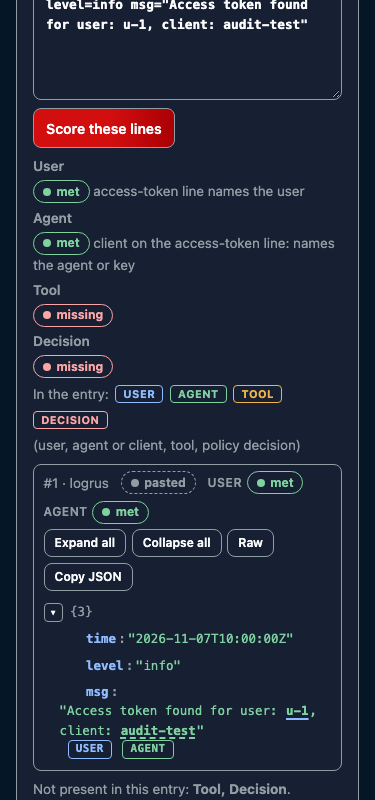
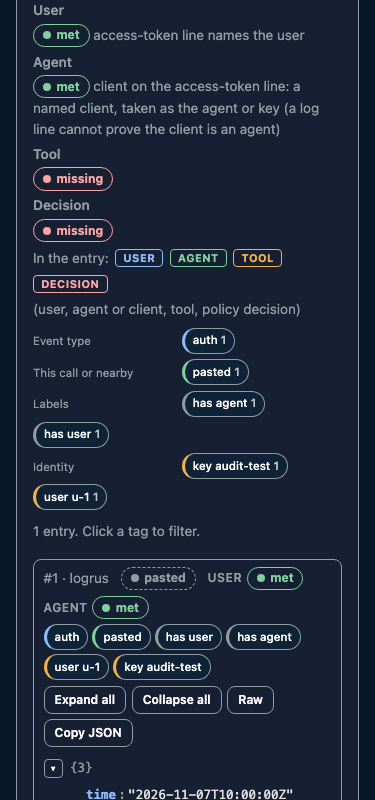
Trace entry tags with filtering; Run stays on the Run page
Every log entry now carries clickable tags in four groups: event type
(read from the line), this call or nearby, labels (source, runtime or
console, requirement fields) and identity (keys, users, apps and decoded
Privilege RefIDs). Each sink gets a tag filter with counts: any tag within
a group, all groups with a selection.

Run no longer jumps to the Trace: the result shows on the card, focus
returns to that Run button, and Open trace is a separate click.

diff --git a/web/src/App.test.jsx b/web/src/App.test.jsx
@@ -41,7 +41,7 @@ describe("Mock mode", () => {
     }
     await screen.findByTestId("run-page");
     await user.click(screen.getByTestId("run-mcp-allowed-key"));
-    // the run opens its Trace by itself once the log entry has been fetched
+    await openTrace(user, "mcp-allowed-key");
     const lines = await screen.findByTestId("lines-gateway-log", {}, { timeout: 5000 });
     const marked = [...lines.querySelectorAll("mark")].map((m) => [m.getAttribute("data-field"), m.textContent]);
     expect(marked).toContainEqual(["tool", "get_weather"]);
@@ -136,13 +136,35 @@ describe("Mock mode", () => {
     render(<App />);
     await screen.findByTestId("run-page");
     await user.click(screen.getByTestId("run-no-credential"));
-    await screen.findByTestId("trace-page", {}, { timeout: 5000 });
-    await user.click(screen.getByTestId("nav-run"));
-    await screen.findByTestId("open-no-credential");
+    await screen.findByTestId("open-no-credential", {}, { timeout: 5000 });
     await user.click(screen.getByTestId("refresh"));
     await waitFor(() => expect(screen.getByTestId("notice").textContent).toMatch(/Refreshed: any wait for a log entry was stopped/));
     expect(screen.getByTestId("open-no-credential")).toBeInTheDocument();
     expect(screen.getByTestId("run-no-credential")).not.toBeDisabled();
+  });
+
+  it("Trace: every entry carries tags, and clicking tags filters the entries (any within a group, all across groups); Clear restores", async () => {
+    lab = await startLab();
+    const user = userEvent.setup();
+    render(<App />);
+    await screen.findByTestId("run-page");
+    await user.click(screen.getByTestId("run-mcp-allowed-key"));
+    await openTrace(user, "mcp-allowed-key");
+    const sink = await screen.findByTestId("lines-gateway-log", {}, { timeout: 5000 });
+    const items = () => within(sink).queryAllByTestId("entry-item");
+    expect(items()).toHaveLength(3);
+    expect(within(items()[0]).getAllByTestId("entry-tag").map((t) => t.getAttribute("data-tag"))).toEqual(expect.arrayContaining(["type:auth", "match:recorded sample", "identity:key audit-test"]));
+    const filterTag = (id) => within(sink).getAllByTestId("filter-tag").find((b) => b.getAttribute("data-tag") === id);
+    await user.click(filterTag("type:auth"));
+    expect(items()).toHaveLength(1);
+    expect(filterTag("type:auth")).toHaveAttribute("aria-pressed", "true");
+    expect(within(sink).getByTestId("tag-filter-count").textContent).toMatch(/Showing 1 of 3 entries/);
+    await user.click(filterTag("type:policy"));
+    expect(items()).toHaveLength(2);
+    await user.click(filterTag("identity:key audit-test"));
+    expect(items()).toHaveLength(1);
+    await user.click(within(sink).getByTestId("tag-filter-clear"));
+    expect(items()).toHaveLength(3);
   });
 
   it("Trace says where every log entry came from: a recorded sample names its sink and date, and each entry carries a from chip", async () => {
@@ -151,7 +173,7 @@ describe("Mock mode", () => {
     render(<App />);
     await screen.findByTestId("run-page");
     await user.click(screen.getByTestId("run-mcp-allowed-key"));
-    await screen.findByTestId("trace-page", {}, { timeout: 5000 });
+    await openTrace(user, "mcp-allowed-key");
     const origin = await screen.findByTestId("origin-gateway-log");
     expect(origin.textContent).toMatch(/Recorded sample/);
     expect(origin.textContent).toMatch(/Gateway pod log \(cyonproxy\.log\)/);
@@ -168,9 +190,7 @@ describe("Mock mode", () => {
     render(<App />);
     await screen.findByTestId("run-page");
     await user.click(screen.getByTestId("run-no-credential"));
-    await screen.findByTestId("trace-page", {}, { timeout: 5000 });
-    await user.click(screen.getByTestId("nav-run"));
-    await screen.findByTestId("open-no-credential");
+    await screen.findByTestId("open-no-credential", {}, { timeout: 5000 });
     await user.click(screen.getByTestId("reset"));
     await waitFor(() => expect(screen.queryByTestId("open-no-credential")).toBeNull());
     await user.click(screen.getByTestId("nav-diagram"));
@@ -240,9 +260,11 @@ describe("Real mode (against a fake gateway)", () => {
       expect(screen.getByTestId("gate-gateway").textContent).toBe(new URL(gw.url).origin);
       expect(screen.queryByTestId("open-mcp-allowed-key")).toBeNull();
       await user.click(screen.getByTestId("gate-confirm"));
-      // the run goes on after the confirmation and opens its Trace; no log source is configured, so the paste box is the fallback
-      await screen.findByTestId("trace-page", {}, { timeout: 5000 });
+      // the run goes on after the confirmation and stays on the Run page; no log source is configured, so the Trace offers the paste box
+      await waitFor(() => expect(screen.getByTestId("run-mcp-allowed-key")).not.toBeDisabled(), { timeout: 5000 });
+      expect(screen.getByTestId("run-page")).toBeInTheDocument();
       expect(gate).not.toBeInTheDocument();
+      await openTrace(user, "mcp-allowed-key");
       expect(await screen.findByTestId("unscored")).toBeInTheDocument();
       expect(screen.getByTestId("retrieval").textContent).toMatch(/not configured/);
       expect(screen.getByTestId("retrieval").textContent).toMatch(/Paste the gateway log lines/);
@@ -301,13 +323,15 @@ const fakeProxy = (gw, ctl = { mode: "ok", delayMs: 0 }) => new Promise((resolve
   server.listen(0, "127.0.0.1", () => resolve({ base: `http://127.0.0.1:${server.address().port}`, ctl, close: () => new Promise((r) => { server.closeAllConnections(); server.close(r); }) }));
 });
 const realLab = async (gw, proxy, opts) => startLab({ opts, env: { STANDALONE_ENV: "/nonexistent/settings.env", PRIV_LOG_GATEWAY_URL: gw.url, PRIV_LOG_AGENT_KEY: KEY, ...(proxy ? { PRIV_LOG_K8S_PROXY_URL: proxy.base, PRIV_LOG_K8S_NAMESPACE: "privilege", PRIV_LOG_K8S_POD: "gateway-abc" } : {}) } });
+// Run no longer opens the Trace: wait for the card's Open trace button and click it.
+const openTrace = async (user, id) => user.click(await screen.findByTestId(`open-${id}`, {}, { timeout: 8000 }));
 const confirmAndRun = async (user, id) => {
   await user.click(screen.getByTestId(`run-${id}`));
   await user.click(await screen.findByTestId("gate-confirm"));
 };
 
 describe("Run progress and automatic log retrieval", () => {
-  it("Mock shows the same two phases (a short simulated delay), keeps the replay banner, then opens the Trace with the recorded entry", async () => {
+  it("Mock shows the same two phases (a short simulated delay), keeps the replay banner, stays on the Run page, and Open trace shows the recorded entry", async () => {
     lab = await startLab({ opts: { mockDelayMs: 500 } });
     const user = userEvent.setup();
     render(<App />);
@@ -320,12 +344,17 @@ describe("Run progress and automatic log retrieval", () => {
     await waitFor(() => expect(screen.getByTestId("busy-mcp-allowed-key").textContent).toMatch(/Fetching the log entry \(simulated delay\)/), { timeout: 3000 });
     expect(screen.getByTestId("banner").textContent).toMatch(/Replay of transactions measured on 2026-11-07; nothing is sent\./);
     expect(screen.getByTestId("run-mcp-allowed-key")).toBeDisabled();
+    await waitFor(() => expect(screen.getByTestId("run-mcp-allowed-key")).not.toBeDisabled(), { timeout: 5000 });
+    expect(screen.getByTestId("run-page")).toBeInTheDocument();
+    expect(screen.getByTestId("run-mcp-allowed-key")).toHaveFocus();
+    expect(within(screen.getByTestId("case-mcp-allowed-key")).getByLabelText("score")).toBeInTheDocument();
+    await openTrace(user, "mcp-allowed-key");
     await screen.findByTestId("lines-gateway-log", {}, { timeout: 5000 });
     expect(screen.getByTestId("retrieval").textContent).toMatch(/recording/);
     expect(screen.getByTestId("banner").textContent).toMatch(/nothing is sent/);
   });
 
-  it("Real: Sending... then Fetching the log entry... then the Trace opens by itself with the entry matched by the run marker", async () => {
+  it("Real: Sending... then Fetching the log entry... then Open trace shows the entry matched by the run marker", async () => {
     const gw = await fakeGw({ delayMs: 150 }); const proxy = await fakeProxy(gw, { mode: "ok", delayMs: 300 });
     lab = await realLab(gw, proxy);
     const user = userEvent.setup();
@@ -335,6 +364,9 @@ describe("Run progress and automatic log retrieval", () => {
       await confirmAndRun(user, "mcp-allowed-key");
       await waitFor(() => expect(screen.getByTestId("busy-mcp-allowed-key").textContent).toMatch(/Sending\.\.\./), { timeout: 3000 });
       await waitFor(() => expect(screen.getByTestId("busy-mcp-allowed-key").textContent).toMatch(/Fetching the log entry\.\.\./), { timeout: 5000 });
+      await waitFor(() => expect(screen.queryByTestId("busy-mcp-allowed-key")).toBeNull(), { timeout: 8000 });
+      expect(screen.getByTestId("run-page")).toBeInTheDocument();
+      await openTrace(user, "mcp-allowed-key");
       await screen.findByTestId("lines-k8s-pod", {}, { timeout: 8000 });
       expect(screen.getByTestId("trace-marker").textContent).toMatch(/^audit-[0-9a-f]{8}$/);
       const methods = screen.getAllByTestId("entry-method").map((e) => e.textContent);

diff --git a/web/src/components/LogEntries.jsx b/web/src/components/LogEntries.jsx
@@ -3,6 +3,7 @@ import { parseLogLine } from "../lib/logEntry";
 import { FIELDS, FIELD_LABEL, fieldsOf } from "../lib/marks";
 import { Chip, LevelChip } from "./Chips";
 import JsonTree, { FieldLegend } from "./JsonTree";
+import { matchesAll, tagId, tagsFor } from "../lib/entryTags";
 
 const METHOD = {
   marker: ["ok", "matched by marker"], window: ["warn", "time window: inferred"], recorded: ["info", "recorded sample"],
@@ -13,20 +14,55 @@ const SHOW = 50;
 // The lines one sink returned, each as a coloured JSON tree (logrus text and JSON records parsed; anything else one string node),
 // tagged with HOW it was matched to the call, and a list of the requirement fields this entry does not contain.
 const KIND = { runtime: ["ok", "runtime event"], console: ["info", "console event"], unknown: ["neutral", "kind unknown"] };
+const GROUPS = [["type", "Event type"], ["match", "This call or nearby"], ["label", "Labels"], ["identity", "Identity"]];
+
+// Every tag on these entries, grouped, with how many entries carry it. Clicking one filters; clicking again clears it.
+function TagFilter({ tagsByEntry, selected, onToggle, onClear, shown, total }) {
+  const counts = new Map();
+  for (const tags of tagsByEntry) for (const t of tags) { const id = tagId(t); const c = counts.get(id) || { t, n: 0 }; c.n += 1; counts.set(id, c); }
+  return (
+    <div className="tagfilter" data-testid="tag-filter" role="group" aria-label="Filter entries by tag">
+      {GROUPS.map(([g, label]) => {
+        const items = [...counts.values()].filter((c) => c.t.group === g).sort((a, b) => b.n - a.n || a.t.value.localeCompare(b.t.value));
+        if (!items.length) return null;
+        return (
+          <div key={g} className="tagfilter__group">
+            <span className="muted tagfilter__label">{label}</span>
+            {items.map(({ t, n }) => <TagButton key={tagId(t)} t={t} on={selected.has(tagId(t))} onToggle={onToggle} count={n} testId="filter-tag" />)}
+          </div>
+        );
+      })}
+      <p className="muted" data-testid="tag-filter-count">
+        {selected.size ? <>Showing {shown} of {total} entries. <button type="button" onClick={onClear} data-testid="tag-filter-clear">Clear filters</button></> : <>{total} {total === 1 ? "entry" : "entries"}. Click a tag to filter.</>}
+      </p>
+    </div>
+  );
+}
+const TagButton = ({ t, on, onToggle, count, testId }) => (
+  <button type="button" className={`etag etag--${t.group}${on ? " etag--on" : ""}`} aria-pressed={on ? "true" : "false"} onClick={() => onToggle(tagId(t))} data-testid={testId} data-tag={tagId(t)}>
+    {t.value}{count !== undefined ? <span className="etag__n"> {count}</span> : null}
+  </button>
+);
 
 export default function LogEntries({ lines, methods = [], marks = {}, testId = "lines", scored = true, from = "", kinds = [], indices = [] }) {
   const [all, setAll] = useState(false);
+  const [selected, setSelected] = useState(() => new Set());
   const parsed = useMemo(() => lines.map((l) => parseLogLine(l)), [lines]);
+  const tagsByEntry = useMemo(() => lines.map((l, i) => tagsFor(l, { method: methods[i], kind: kinds[i], from, fields: fieldsOf(marks[i] || []).map((f) => f.field) })), [lines, methods, kinds, from, marks]);
   if (!lines.length) return null;
+  const toggle = (id) => setSelected((s) => { const n = new Set(s); if (n.has(id)) n.delete(id); else n.add(id); return n; });
+  const visibleIdx = lines.map((_, i) => i).filter((i) => matchesAll(tagsByEntry[i], selected));
   const textMarks = (i) => (marks[i] || []).map((m) => ({ ...m, text: Number.isInteger(m.start) && m.start >= 0 && m.end > m.start ? String(lines[i]).slice(m.start, m.end) : null }));
   const present = new Set(Object.values(marks).flat().map((m) => m.field));
   const missing = FIELDS.filter((f) => !present.has(f));
-  const shown = all ? lines.length : Math.min(lines.length, SHOW);
+  const shown = all ? visibleIdx.length : Math.min(visibleIdx.length, SHOW);
   return (
     <div data-testid={testId}>
       <FieldLegend />
+      <TagFilter tagsByEntry={tagsByEntry} selected={selected} onToggle={toggle} onClear={() => setSelected(new Set())} shown={visibleIdx.length} total={lines.length} />
       <ol className="entries">
-        {lines.slice(0, shown).map((line, i) => {
+        {visibleIdx.slice(0, shown).map((i) => {
+          const line = lines[i];
           const [kind, word] = METHOD[methods[i]] || [];
           const fs = fieldsOf(marks[i] || []);
           return (
@@ -38,12 +74,13 @@ export default function LogEntries({ lines, methods = [], marks = {}, testId = "
                 {word && <Chip kind={kind} testId="entry-method">{word}</Chip>}
                 {fs.map((f) => <span key={f.field} className="ltag"><span className="ltag__name">{FIELD_LABEL[f.field]}</span> <LevelChip level={f.level} /></span>)}
               </div>
+              <div className="entry__tags" data-testid="entry-tags">{tagsByEntry[i].map((t) => <TagButton key={tagId(t)} t={t} on={selected.has(tagId(t))} onToggle={toggle} testId="entry-tag" />)}</div>
               <JsonTree value={parsed[i].value} raw={line} marks={textMarks(i)} label={`Log entry ${i + 1}`} testId={`entry-${i}`} />
             </li>
           );
         })}
       </ol>
-      {lines.length > shown && <button type="button" onClick={() => setAll(true)} data-testid="entries-all">Show all {lines.length} entries</button>}
+      {visibleIdx.length > shown && <button type="button" onClick={() => setAll(true)} data-testid="entries-all">Show all {visibleIdx.length} entries</button>}
       {scored && <p className="muted" data-testid="not-present">{missing.length ? <>Not present in this entry: <b>{missing.map((f) => FIELD_LABEL[f]).join(", ")}</b>.</> : "All four requirement fields appear in this entry."}</p>}
     </div>
   );

diff --git a/web/src/lib/entryTags.js b/web/src/lib/entryTags.js
@@ -1,0 +1,67 @@
+// Tags for one log entry, so the Trace can filter on them. Four groups:
+//   type     what the line is about (auth, policy, routing, MCP request, response filter, guardrail, other), from its text
+//   match    how it was tied to the call (this call = run marker; nearby = time window, inferred; recorded; pasted)
+//   label    the labels already shown: source, runtime/console, and the requirement fields the scorer found
+//   identity the keys, users, clients, apps and identities the line names (Privilege RefIDs decoded to their last segment)
+// A tag is { group, value }; its id is `${group}:${value}`. Pure: text in, tags out.
+
+const TYPES = [
+  ['auth', /workload token (accepted|rejected)|Access token found|auth rejected|token_not_found|invalid virtual key|Bearer token required|unauthori[sz]ed/i],
+  ['policy', /is in list|has permission|policy based capabilities|policy denied|AuthorizationReqCheck|RBAC check|polattr|Access Denied|"?Decision"?\s*[:=]|PolicyDecision/i],
+  ['routing', /resolved host|Finding frontend|Proxying to|backend node|Domain .* not found/i],
+  ['MCP request', /incoming request|MCP call detected|tools\/call|tools\/list|"method"\s*:/i],
+  ['response filter', /mcpfilter|modifyMCPResponse/i],
+  ['guardrail', /aiguard|guardrail|content_blocked|blocked by security|inspection|jailbreak|prompt injection/i],
+];
+export const MATCH = { marker: 'this call', window: 'nearby (time window)', recorded: 'recorded sample', pasted: 'pasted', response: 'response header' };
+const KIND = { runtime: 'runtime event', console: 'console event' };
+const FIELD = { user: 'has user', agent: 'has agent', tool: 'has tool', decision: 'has decision' };
+
+const lastSegment = (b64) => {
+  try { const s = atob(b64); return s.includes('@@@') ? s.split('@@@').pop() : null; } catch { return null; }
+};
+const short = (v) => String(v).replace(/[",}\]]+$/, '').slice(0, 60);
+
+export function identitiesOf(line) {
+  const out = [];
+  const add = (kind, v) => { if (v) out.push(`${kind} ${short(v)}`); };
+  let m;
+  const t = String(line);
+  if ((m = /workload token (?:accepted|rejected) for key (\S+)(?: issuer=(\S+))?(?: subject=(\S+))?/.exec(t))) { add('key', m[1]); add('subject', m[3]); }
+  if ((m = /Access token found for user: ([^,]+), client: ([^\s"]+)/.exec(t))) { add('user', m[1].trim()); add('key', m[2]); }
+  if ((m = /resolved host for app ([^\s:]+)/.exec(t))) add('app', m[1]);
+  if ((m = /\bapp=([A-Za-z0-9._-]+)/.exec(t))) add('app', m[1]);
+  for (const r of t.matchAll(/RefKind:(NonHumanIdentity|User|Application|Group) RefID:([A-Za-z0-9+/=]{8,})/g)) {
+    const name = lastSegment(r[2]);
+    add({ NonHumanIdentity: 'identity', User: 'user', Application: 'app', Group: 'group' }[r[1]], name);
+  }
+  for (const [k, kind] of [['AgentKey', 'key'], ['Target', 'app'], ['User', 'user']]) {
+    const j = new RegExp(`"${k}"\\s*:\\s*"([^"]{1,80})"`).exec(t);
+    if (j) add(kind, j[1]);
+  }
+  return [...new Set(out)];
+}
+
+// line: the raw text; method, kind, from: what LogEntries already knows; fields: the requirement fields the scorer marked.
+export function tagsFor(line, { method, kind, from, fields = [] } = {}) {
+  const tags = [];
+  const types = TYPES.filter(([, re]) => re.test(String(line))).map(([n]) => n);
+  for (const n of types.length ? types : ['other']) tags.push({ group: 'type', value: n });
+  if (MATCH[method]) tags.push({ group: 'match', value: MATCH[method] });
+  if (from) tags.push({ group: 'label', value: `from ${from}` });
+  if (KIND[kind]) tags.push({ group: 'label', value: KIND[kind] });
+  for (const f of fields) if (FIELD[f]) tags.push({ group: 'label', value: FIELD[f] });
+  for (const i of identitiesOf(line)) tags.push({ group: 'identity', value: i });
+  return tags;
+}
+
+export const tagId = (t) => `${t.group}:${t.value}`;
+
+// An entry passes when, for every group with a selection, it carries at least one of that group's selected tags
+// (auth + policy = lines about either; auth + "this call" = auth lines from this call).
+export function matchesAll(tags, selected) {
+  const byGroup = new Map();
+  for (const id of selected) { const g = id.slice(0, id.indexOf(':')); (byGroup.get(g) || byGroup.set(g, new Set()).get(g)).add(id); }
+  const mine = new Set(tags.map(tagId));
+  return [...byGroup.values()].every((ids) => [...ids].some((id) => mine.has(id)));
+}

diff --git a/web/src/lib/entryTags.test.js b/web/src/lib/entryTags.test.js
@@ -1,0 +1,41 @@
+import { describe, expect, it } from "vitest";
+import { identitiesOf, matchesAll, tagId, tagsFor } from "./entryTags";
+
+const ref = (name) => btoa(`00000000-0000-0000-0000-000000000000@@@default@@@${name}`);
+const ids = (tags) => tags.map(tagId);
+
+describe("entry tags", () => {
+  it("event type comes from the line text; a line can have several, and anything else is 'other'", () => {
+    expect(ids(tagsFor('msg="mcpgw: workload token accepted for key lab-fed issuer=https://x.invalid subject=lab"'))).toContain("type:auth");
+    expect(ids(tagsFor(`Principal {RefKind:NonHumanIdentity RefID:${ref("lab")}} has policy based capabilities for {RefKind:Application RefID:${ref("hostile-mcp")}}`))).toContain("type:policy");
+    expect(ids(tagsFor("[mcpgw] resolved host for app hostile-mcp: h.invalid:8643"))).toContain("type:routing");
+    expect(ids(tagsFor("[mcpfilter] running modifyMCPResponse ct=text/event-stream cl=114 app=hostile-mcp"))).toContain("type:response filter");
+    expect(ids(tagsFor("aiguard: content_blocked"))).toContain("type:guardrail");
+    expect(ids(tagsFor("something unrelated"))).toEqual(["type:other"]);
+  });
+
+  it("match and labels come from what the entry already knows", () => {
+    const t = ids(tagsFor("x", { method: "marker", kind: "runtime", from: "Gateway pod log", fields: ["tool", "decision"] }));
+    expect(t).toEqual(expect.arrayContaining(["match:this call", "label:from Gateway pod log", "label:runtime event", "label:has tool", "label:has decision"]));
+    expect(ids(tagsFor("x", { method: "window" }))).toContain("match:nearby (time window)");
+  });
+
+  it("identities: key, subject, user, app and decoded Privilege RefIDs (last segment only)", () => {
+    expect(identitiesOf('workload token accepted for key lab-fed issuer=https://x.invalid subject=lab-sub"')).toEqual(["key lab-fed", "subject lab-sub"]);
+    expect(identitiesOf("Access token found for user: u-1, client: audit-test")).toEqual(["user u-1", "key audit-test"]);
+    expect(identitiesOf(`Success: principal {RefKind:NonHumanIdentity RefID:${ref("privilege-logging-lab")}} has permission for {RefKind:Application RefID:${ref("hostile-mcp")}}`))
+      .toEqual(["identity privilege-logging-lab", "app hostile-mcp"]);
+    expect(identitiesOf('{"AgentKey":"audit-test","Target":"demo-mcp-app"}')).toEqual(["key audit-test", "app demo-mcp-app"]);
+    expect(identitiesOf("RefKind:User RefID:not-base64!!")).toEqual([]);
+  });
+
+  it("filter: any selected tag within a group, every group with a selection", () => {
+    const auth = tagsFor("Access token found for user: u, client: k", { method: "marker" });
+    const pol = tagsFor("has permission for app", { method: "window" });
+    expect(matchesAll(auth, new Set())).toBe(true);
+    expect(matchesAll(auth, new Set(["type:auth", "type:policy"]))).toBe(true);
+    expect(matchesAll(pol, new Set(["type:auth", "type:policy"]))).toBe(true);
+    expect(matchesAll(pol, new Set(["type:policy", "match:this call"]))).toBe(false);
+    expect(matchesAll(auth, new Set(["type:auth", "match:this call"]))).toBe(true);
+  });
+});

diff --git a/web/src/app.css b/web/src/app.css
@@ -148,3 +148,14 @@ button[aria-pressed="true"]:hover:not(:disabled), button[aria-selected="true"]:h
    dashed edge. Muted on --surface-2 stays above 4.5:1 in both themes. Override here; standalone-ui.css is vendored. */
 button.primary:disabled { background: var(--surface-2); color: var(--muted); border: 1px dashed var(--muted); opacity: 1; }
 .priv-filters { display: flex; flex-wrap: wrap; gap: 0.6rem; align-items: end; margin: 0.5rem 0; }
+/* Entry tags and the tag filter (Trace): unselected tags keep readable text on surface-2; selected = accent fill. */
+.tagfilter { display: grid; gap: 0.35rem; margin: 0.5rem 0 0.75rem; }
+.tagfilter__group { display: flex; flex-wrap: wrap; align-items: center; gap: 0.3rem; }
+.tagfilter__label { font-size: 0.72rem; min-width: 9rem; }
+.entry__tags { display: flex; flex-wrap: wrap; gap: 0.25rem; margin: 0.3rem 0; }
+.etag { min-height: 26px; font-weight: 500; font-size: 0.72rem; line-height: 1.3; padding: 0.1rem 0.5rem; border-radius: 999px; border: 1px solid var(--border); border-left-width: 3px; background: var(--surface-2); color: var(--text); cursor: pointer; overflow-wrap: anywhere; text-align: left; }
+.etag--type { border-left-color: var(--status-info); } .etag--match { border-left-color: var(--status-ok); }
+.etag--identity { border-left-color: var(--status-warn); } .etag--label { border-left-color: var(--muted); }
+.etag--on { background: var(--accent); color: var(--on-accent); border-color: var(--on-accent-border); }
+.etag__n { opacity: 0.75; }
+.etag:focus-visible { outline: 2px solid var(--accent); outline-offset: 1px; }

diff --git a/web/src/ReviewFixes.test.jsx b/web/src/ReviewFixes.test.jsx
@@ -78,16 +78,17 @@ describe("Run page accessibility and focus", () => {
     expect(screen.getByTestId("mode-real")).toHaveAttribute("aria-describedby", "real-hint");
   });
 
-  it("after a Run opens its Trace, focus is on the Trace heading, not lost to <body>", async () => {
+  it("after a Run the page stays on Run and focus returns to that Run button, not lost to <body>", async () => {
     lab = await startLab();
     const user = userEvent.setup();
     render(<App />);
     await screen.findByTestId("run-page");
     await waitFor(() => expect(screen.getByTestId("run-mcp-allowed-key")).not.toBeDisabled());
     await user.click(screen.getByTestId("run-mcp-allowed-key"));
-    await screen.findByTestId("lines-gateway-log", {}, { timeout: 5000 });
-    await waitFor(() => expect(document.activeElement).toBe(screen.getByRole("heading", { level: 1 })));
-    expect(document.activeElement.textContent).toMatch(/^Trace/);
+    await screen.findByTestId("open-mcp-allowed-key", {}, { timeout: 5000 });
+    await waitFor(() => expect(document.activeElement).toBe(screen.getByTestId("run-mcp-allowed-key")));
+    expect(screen.getByTestId("run-page")).toBeInTheDocument();
+    expect(screen.queryByTestId("trace-page")).toBeNull();
   });
 
   it("Run all gives focus back to Run all when the browser dropped it while the buttons were disabled", async () => {

diff --git a/web/src/App.jsx b/web/src/App.jsx
@@ -131,8 +131,9 @@ export default function App() {
     setFocusReq({ target: from || (ids.length === 1 ? `run-${ids[0]}` : "run-all") });
   }, [doRun]); // eslint-disable-line react-hooks/exhaustive-deps
 
-  const onRun = (id) => runList([id], { openTrace: true });
-  const onLook = (id, sinceIso) => doRun(id, { since: sinceIso }).then((r) => { if (r === "ok") { go("trace", id); setFocusReq({ target: "title" }); } });
+  // Run stays on the Run page: the result shows on the card and focus returns to its Run button (Open trace is a separate click).
+  const onRun = (id) => runList([id]);
+  const onLook = (id, sinceIso) => doRun(id, { since: sinceIso }).then(() => setFocusReq({ target: `run-${id}` }));
   const onRunAll = () => runList(cases.cases.filter((c) => (info?.source === "real" ? c.realRunnable && !c.consoleAction && (!c.needsBearer || c.bearerConfigured) : !c.realOnly)).map((c) => c.id), { from: "run-all" });
   useEffect(() => {
     if (!focusReq || running) return;

diff --git a/README.md b/README.md
@@ -60,8 +60,8 @@ The lab then GETs `/api/v1/namespaces/<ns>/pods/<pod>/log?container=<c>&sinceSec
 
 ## Pages
 
-1. **Run**: use cases grouped MCP, AI Guard, Rejected, Aggregate, A2A, LLM, Intent, a Run button each and Run all.
-2. **Trace**: the request, the response (HTTP and JSON-RPC `isError`), the raw hops, and per-sink panels where **every log entry is a syntax-coloured JSON tree**: logrus text lines (`time`, `level`, `msg`, `file`, then key=value pairs) and JSON records (such as the AI Guard record) are parsed, anything else is one string node, nothing is dropped. Collapse or expand per node (arrow keys, `role=tree`), Expand all / Collapse all, a Raw toggle, Copy JSON (redacted). The user, agent, tool and decision values are badged and underlined in the tree with a legend, each entry is tagged by how it was matched (marker, inferred time window, recorded sample, pasted), and missing fields are listed as "not present in this entry". Rendering is React text only (no `innerHTML`), by an iterative walker with depth, node and string caps.
+1. **Run**: use cases grouped MCP, AI Guard, Rejected, Aggregate, A2A, LLM, Intent, a Run button each and Run all. A Run stays on this page (no jump to the Trace): the HTTP and score chips appear on the card, and **Open trace** shows the details.
+2. **Trace**: the request, the response (HTTP and JSON-RPC `isError`), the raw hops, and per-sink panels where **every log entry is a syntax-coloured JSON tree**: logrus text lines (`time`, `level`, `msg`, `file`, then key=value pairs) and JSON records (such as the AI Guard record) are parsed, anything else is one string node, nothing is dropped. Collapse or expand per node (arrow keys, `role=tree`), Expand all / Collapse all, a Raw toggle, Copy JSON (redacted). The user, agent, tool and decision values are badged and underlined in the tree with a legend, each entry is tagged by how it was matched (marker, inferred time window, recorded sample, pasted), and missing fields are listed as "not present in this entry". Every entry also carries clickable **tags** in four groups: event type (auth, policy, routing, MCP request, response filter, guardrail, other, read from the line), this call or nearby (marker match vs time window), labels (source, runtime/console, the requirement fields found) and identity (keys, users, apps and Federated Identities the line names; Privilege RefIDs are decoded to their name). A filter bar above each sink lists every tag with its count: any selected tag within a group, all groups with a selection (auth + policy = either; auth + this call = auth lines from this call); Clear restores. Rendering is React text only (no `innerHTML`), by an iterative walker with depth, node and string caps.
 3. **Scorecard**: use cases by the four clauses with met / partial / missing / n/a chips and the note. **Copy as Markdown table** for a customer email.
 4. **Where it's logged**: the five sinks, what each held for the cases it was read for (two were never read: UNVERIFIED), and an honest "what we cannot see" list.
 5. **Diagram**: one ReactFlow diagram per flow, caller to Privilege gateway to backend with the sinks hanging off the gateway. Drawn from `diagram-studio/1` data (`server/diagrams/*.json`, built from the capture), movable boxes, Simulate, speed control, Reset restores positions.

diff --git a/CHANGELOG.md b/CHANGELOG.md
@@ -1,5 +1,10 @@
 # Changelog
 
+## Unreleased (entry tags)
+
+- Trace: every log entry has clickable tags (event type, this call or nearby, labels, identity) and each sink has a tag filter with counts.
+- Run stays on the Run page: the result shows on the card and focus goes back to that Run button; Open trace is a separate click. Look for entries works the same way.
+
 ## Unreleased (workload token)
 
 - Valid workload token: the lab mints the token itself (ES256, 300 s, key derived from `PRIV_LOG_FED_SIGNING_SEED`, audience from `PRIV_LOG_FED_AUDIENCE`). `npm run fed-key` makes the seed. The case card and `GET /api/fed-setup` show the public issuer, subject and JWKS, plus the console steps. A pasted token still overrides the minted one. Measured on a live gateway 2026-11-08: `workload token accepted`, call answered 200.
